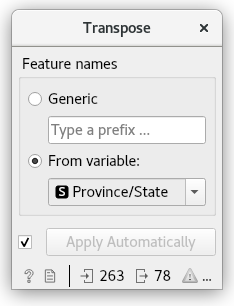
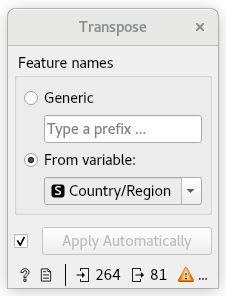
blog: update

Changed region(s): [[0.031, 0.0, 0.9912, 1.0], [0.0929, 0.3041, 0.8982, 0.6993]]

diff --git a/content/blog/2020/2020-04-09-covid-19-part-2.md b/content/blog/2020/2020-04-09-covid-19-part-2.md
@@ -63,9 +63,7 @@ When working with time-series data, the coolest insights arise from observing tr
 
 We'll be using a special widget from Orange3-Timeseries: Time Slice, which lets you select data in a time window. It also features a playback function that slowly moves the time window, outputting corresponding data as it goes.
 
-But first, some widget kung-fu.
-
-### Kill Transpose: Volume 1
+### Transpose: part I
 
 Time Slice requires time instances in the form of rows, while our data specifies them in columns. Let's start again with the File widget that loads the data. Move *Lat* and *Long* to meta attributes by double-clicking  *feature* in the *Role* column and selecting *meta*. This will tell Orange to exclude them from data manipulations.
 
@@ -75,11 +73,11 @@ To flip rows and columns, we use the Transpose widget. Connect it to the File wi
 
 {{% sidework src="/blog_img/2020/2020-04-09-workflow-03.png" %}}
 
-Set *From variable* to *Province/State*. Ignore the warning that indices were added to variables with the same name; it won't hurt us.
+Set *From variable* to *Country/Region*. Ignore the warning that indices were added to variables with the same name; it won't hurt us.
 
 {{% tooltippic src="/blog_img/2020/2020-04-09-transpose-1.png" %}}
 
-To better understand what just happened, connect a Data Table to Transpose and see the result: rows and columns were swapped. Columns are named after countries (because we chose *Province/State* in the Transpose widget), while a new column, *Feature name*, contains the original names of the columns.
+To better understand what just happened, connect a Data Table to Transpose and see the result: rows and columns were swapped. Columns are named after countries (because we chose *Country/Region* in the Transpose widget), while a new column, *Feature name*, contains the original names of the columns.
 
 {{% figure src="/blog_img/2020/2020-04-09-table-1.png" %}}
 
@@ -102,8 +100,7 @@ The top indicates the currently selected slice of data. You can change the inter
 
 With a click of the play button, the slice moves, and the data output updates accordingly. To verify that it works, connect a Data Table, and see it in action.
 
-
-### Kill Transpose: Volume 2
+### Transpose: part II
 
 Make sure to stop the Time Slice playback before proceeding. We're almost at the finish line; we just need to transform the data back into its original form. To do so, connect another Transpose widget.
 
@@ -148,7 +145,7 @@ Press play once again – let's see what we've built!
 
 ## Where from here?
 
-We learned how to extend Orange's functionality with new widgets from add-ons. We used the Orange3-Geo add-on to put COVID-19's numbers on the map. Also, we created an animation showing the spread of the virus. This change could be a good indicator of how countries are fighting the epidemic. 
+In the blog, we explained how to turn Orange into an interactive data exploration tool for Covid-19 data! With a few widgets we were able to determine the change in time for the confirmed cases and plot the results on a map.
 
 Time Slice isn't the only widget in the Orange3-Timeseries add-on. Stay tuned for next week's blog, where we'll delve deeper into patterns emerging from time-series data.
 
